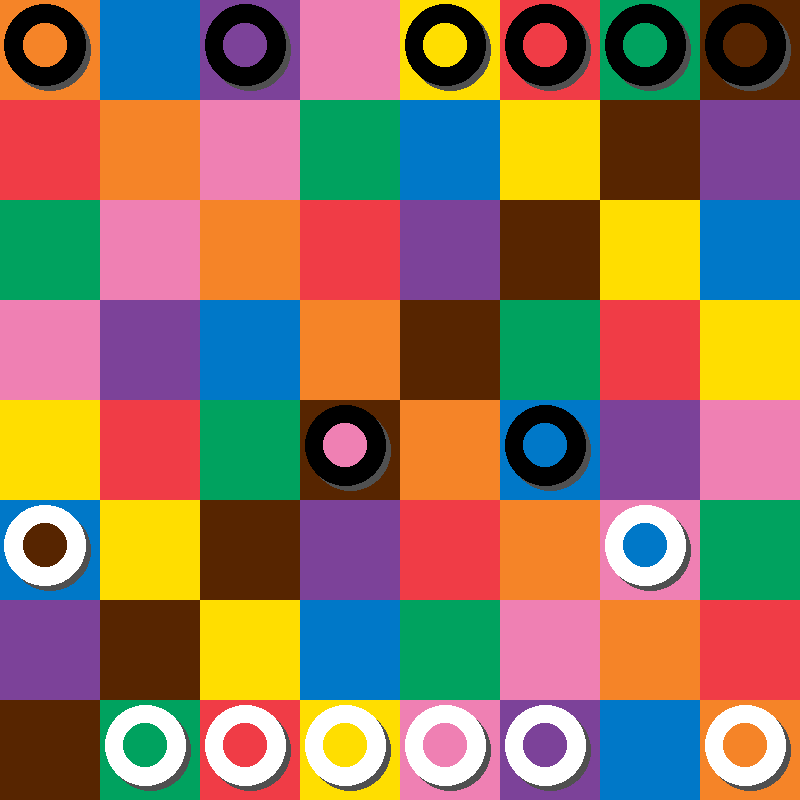
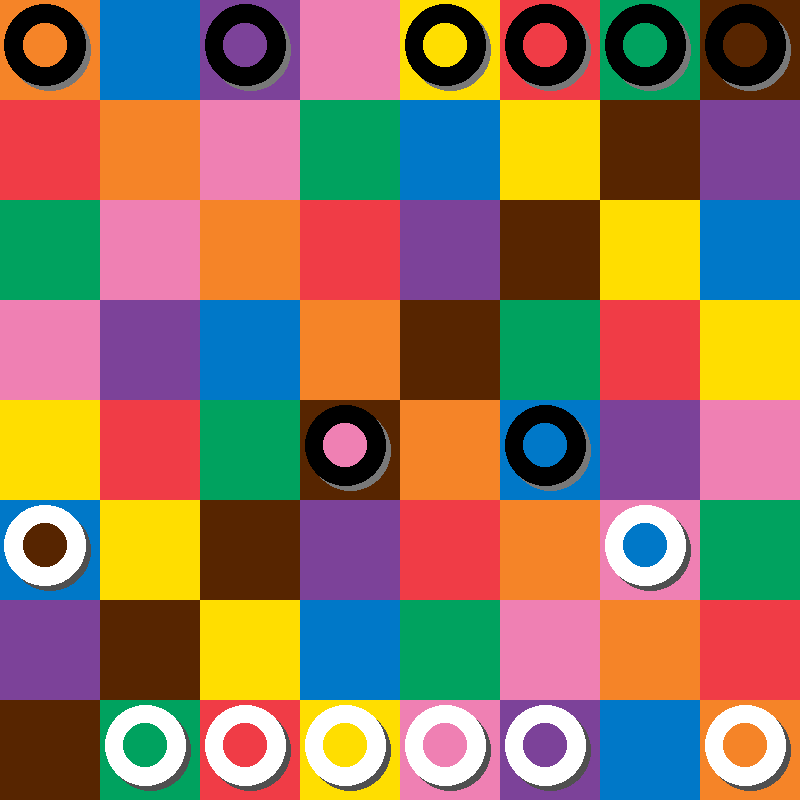
New styling for black stones

diff --git a/main.py b/main.py
@@ -18,11 +18,15 @@ pieceBounding = cellSize * (1 - pieceRatio)
 colorBounding = pieceBounding * (1/colorRatio)
 
 shadowOffset = 5
-shadowColor = (80, 80, 80, 255)
 
 sideColors = {
     -1: (255, 255, 255, 255),
     1: (0, 0, 0, 255)
+}
+
+shadowColors = {
+    -1: (80, 80, 80, 255),
+    1: (120, 120, 120, 255)
 }
 
 pieceColor = (255, 0, 0, 255)
@@ -47,11 +51,10 @@ draw = ImageDraw.Draw(img)
 
 for x in range(8):
     for y in range(8):
-
         draw.rectangle([(x*cellSize, y*cellSize), ((x+1)*cellSize, (y+1)*cellSize)], fill=colorPalette[board.boardColors[x][y]], width=0)
         if (board.board[y][x] != None):
             stone = board.board[y][x]
-            draw.ellipse([(x*cellSize + pieceBounding, y*cellSize + pieceBounding), ((x+1)*cellSize - pieceBounding, (y+1)*cellSize - pieceBounding)], fill=shadowColor)
+            draw.ellipse([(x*cellSize + pieceBounding, y*cellSize + pieceBounding), ((x+1)*cellSize - pieceBounding, (y+1)*cellSize - pieceBounding)], fill=shadowColors[stone.side])
             draw.ellipse([(x*cellSize + pieceBounding - shadowOffset, y*cellSize + pieceBounding - shadowOffset), ((x+1)*cellSize - pieceBounding - shadowOffset, (y+1)*cellSize - pieceBounding - shadowOffset)], fill=sideColors[stone.side])
             draw.ellipse([(x*cellSize + colorBounding - shadowOffset, y*cellSize + colorBounding - shadowOffset), ((x+1)*cellSize - colorBounding - shadowOffset, (y+1)*cellSize - colorBounding - shadowOffset)], fill=colorPalette[stone.color])
 
